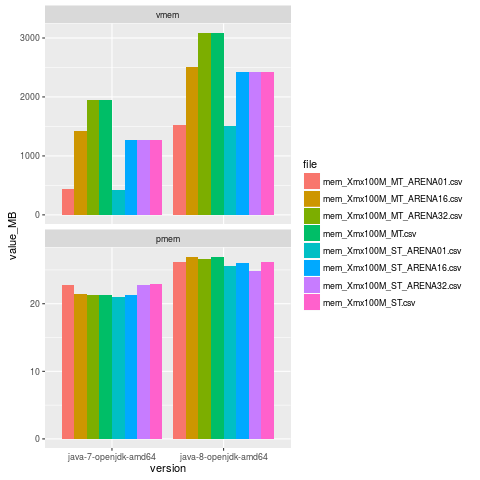
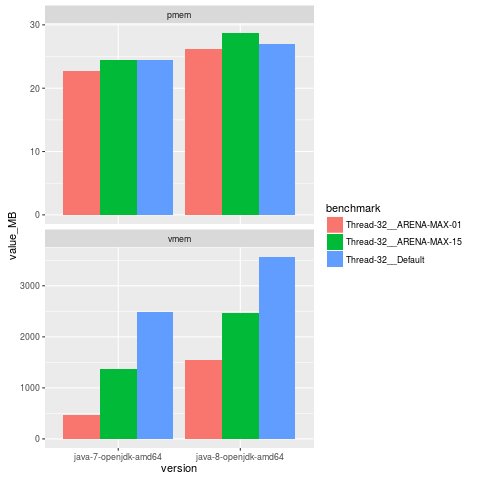
cleaned up

diff --git a/MainMT.java b/MainMT.java
@@ -4,7 +4,7 @@ public class MainMT {
 
   Object hello = new Object();
   Object world = new Object();
-  static int numT = 10; 
+  static int numT = 32; 
 
   public static void main(String[] args) throws InterruptedException {
     for(int i=0; i<numT;i++){
@@ -21,6 +21,7 @@ public class MainMT {
   public void printHello(){
     synchronized (hello) {
       System.out.println("Hello" + Thread.currentThread().getName());
+      System.gc();
       try{
         Thread.sleep(5000);
       } catch(InterruptedException e) {

diff --git a/Main.java b/Main.java
@@ -1,6 +1,7 @@
 public class Main {
   public static void main(String[] args) {
         System.out.println("Hello vMem!");
+        System.gc();
         try {
                 Thread.sleep(5000);
         } catch(InterruptedException e) {
